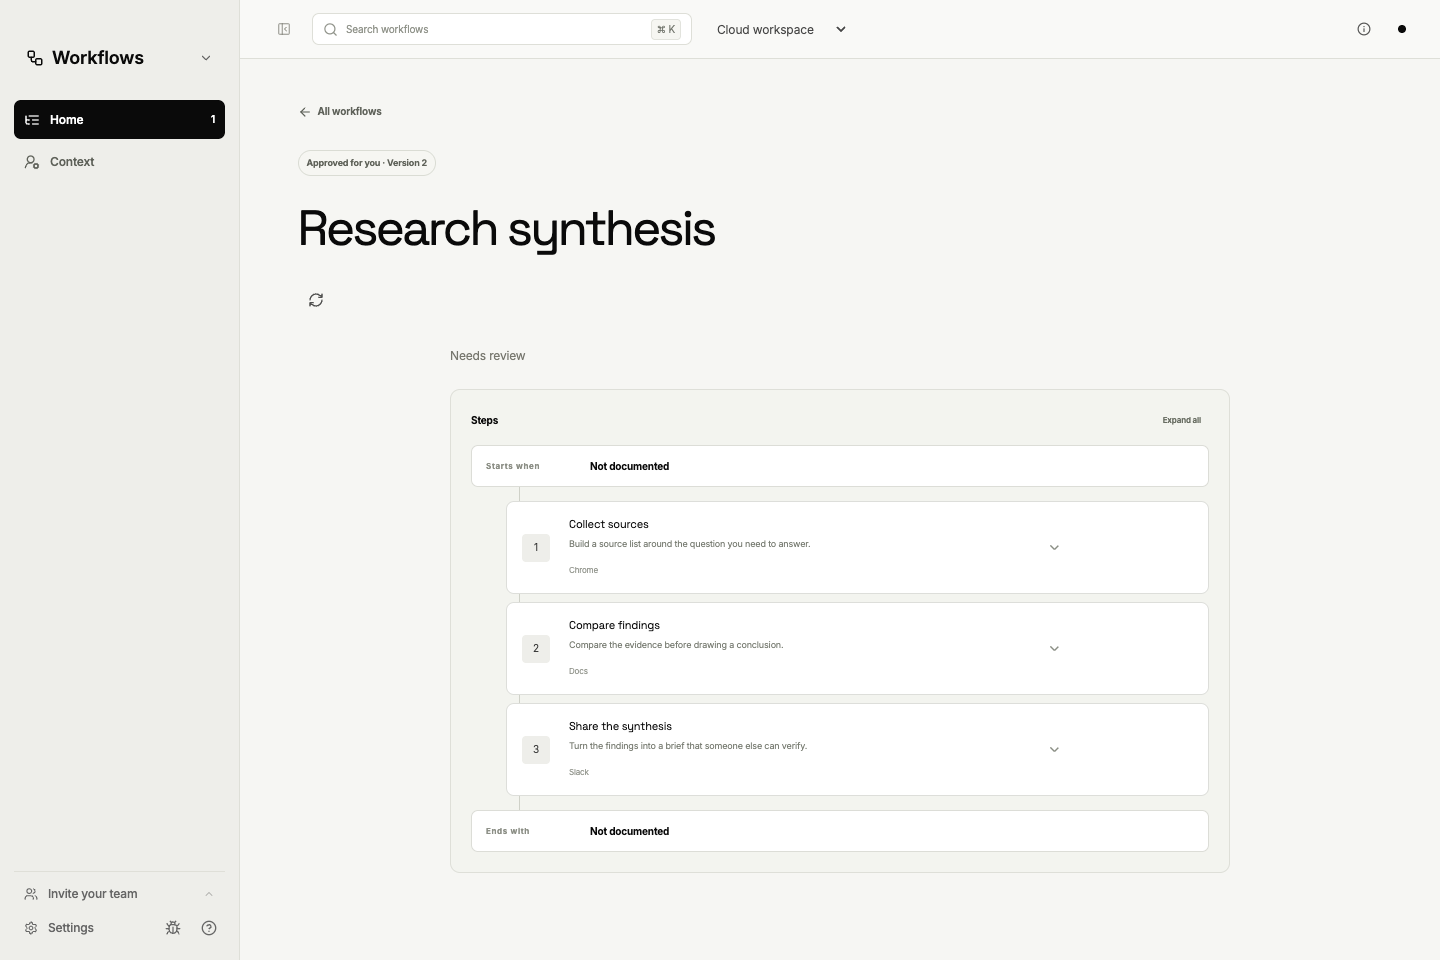
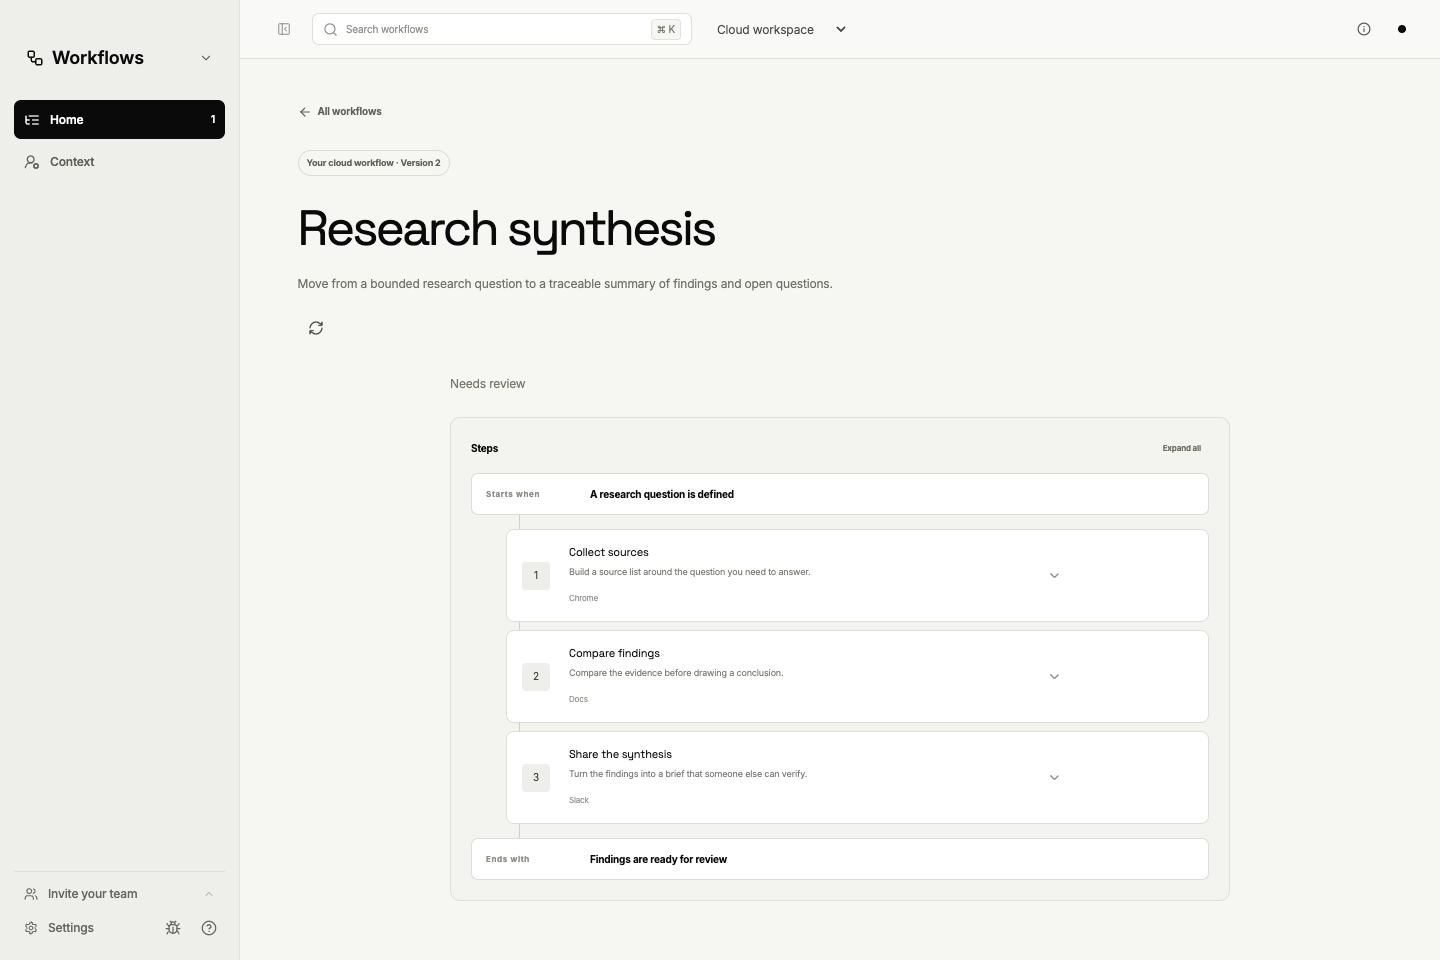
Show automatic personal workflows controlled by workspace settings

diff --git a/apps/screenpipe-app-tauri/components/workflows/cloud-workflows.tsx b/apps/screenpipe-app-tauri/components/workflows/cloud-workflows.tsx
@@ -128,10 +128,10 @@ export function CloudWorkflows({ active, token, onModeChange, recordingStatus, n
         : error ? <section role="alert"><h1 className="text-2xl font-semibold">Cloud workflows unavailable</h1><p className="mt-3 text-sm opacity-70">{error}</p><Button variant="outline" className="mt-4" onClick={refresh}>Refresh</Button></section>
         : loading && !data ? <WorkflowCatalogPlaceholder />
         : view === "workflow" && selected ? <WorkflowDetails workflow={selected} platform={readOnlyPlatform} active={active} navigate={navigate} workProfile={null}
-            workflowAgentActions={() => refreshControl} sourceLabel={`${data?.scope === "member" ? "Approved for you" : "Cloud workflow"} · Version ${selected.revision}`} observationsAvailable={false} canSaveAnswers={false} onAnswersSaved={() => {}} />
+            workflowAgentActions={() => refreshControl} sourceLabel={`${data?.scope === "member" ? "Your cloud workflow" : "Cloud workflow"} · Version ${selected.revision}`} observationsAvailable={false} canSaveAnswers={false} onAnswersSaved={() => {}} />
         : <WorkflowCatalog workflows={workflows} knownWorkflowCount={workflows.length} filters={filters} setFilters={setFilters} openWorkflow={openWorkflow}
             analyze={refresh} analyzing={loading} error="" activityState={{ cycleId: "", items: [], unavailable: false }} refreshControl={refreshControl}
-            emptyState={<section className="py-12"><h2 className="text-lg font-medium">No cloud workflows yet</h2><p className="mt-2 text-sm opacity-70">{data?.scope === "member" ? "Ask your workspace admin to open a workflow’s Share menu and allow you to view it. Only workflows approved for you appear here." : "Workflows will appear here after your workspace analyzes uploaded activity."}</p></section>} />}
+            emptyState={<section className="py-12"><h2 className="text-lg font-medium">No cloud workflows yet</h2><p className="mt-2 text-sm opacity-70">{data?.scope === "member" ? (data.memberAccessEnabled === false ? "Your workspace hasn’t enabled member workflow access. Ask your admin to turn on “Let members see their own workflows” in the enterprise dashboard." : "Your workflows will appear here as your workspace processes activity from your signed-in devices.") : "Workflows will appear here after your workspace analyzes uploaded activity."}</p></section>} />}
     </WorkflowsShell>
     <WorkflowCommandPalette open={active && shortcuts} commands={commands} close={() => setShortcuts(false)} />
   </>;

diff --git a/apps/screenpipe-app-tauri/lib/workflows/cloud-catalog.ts b/apps/screenpipe-app-tauri/lib/workflows/cloud-catalog.ts
@@ -15,14 +15,14 @@ const artifact = z.object({
     recurring_workflows: z.array(z.object({ name: z.string(), trigger: z.string().optional(), outcome: z.string().optional(), frequency: z.string().optional(), steps: z.array(step) })).optional(),
   }),
 });
-const catalog = z.object({ license_id: z.string(), scope: z.enum(["member", "workspace"]).optional(), artifacts: z.array(artifact) });
+const catalog = z.object({ license_id: z.string(), scope: z.enum(["member", "workspace"]).optional(), member_access_enabled: z.boolean().optional(), artifacts: z.array(artifact) });
 export type CloudWorkflow = { id: string; title: string; summary: string; trigger?: string; outcome?: string; frequency?: string; steps: z.infer<typeof step>[]; updatedAt: string; version: number };
-export type CloudWorkflowCatalog = { licenseId: string; scope?: "member" | "workspace"; workflows: CloudWorkflow[] };
+export type CloudWorkflowCatalog = { licenseId: string; scope?: "member" | "workspace"; memberAccessEnabled?: boolean; workflows: CloudWorkflow[] };
 
 export function parseCloudCatalog(value: unknown): CloudWorkflowCatalog {
   const parsed = catalog.parse(value);
   if (parsed.artifacts.some(item => item.org_id !== parsed.license_id)) throw new Error("Cloud workflow workspace did not match.");
-  return { licenseId: parsed.license_id, scope: parsed.scope, workflows: parsed.artifacts
+  return { licenseId: parsed.license_id, scope: parsed.scope, memberAccessEnabled: parsed.member_access_enabled, workflows: parsed.artifacts
     .filter(item => item.status !== "archived" && !item.tags?.includes("studio-chat-draft"))
     .flatMap(item => (item.body.recurring_workflows?.length ? item.body.recurring_workflows : [{ name: item.title, steps: item.body.steps ?? [] }]).map((workflow, index) => ({
       id: `${item.artifact_id}:${index}`, title: workflow.name, summary: item.body.summary ?? "",
@@ -66,7 +66,7 @@ export async function loadCloudCatalog(userToken?: string, signal?: AbortSignal)
     path = "/api/enterprise/member-workflows";
   } else {
     const teamToken = await commands.getEnterpriseTeamApiToken();
-    if (!teamToken) throw new Error("Sign in to your workspace to see workflows approved for you.");
+    if (!teamToken) throw new Error("Sign in to your workspace to see your workflows.");
     headers.Authorization = `Bearer ${teamToken}`;
     path = "/api/enterprise/v1/workflows/generated";
   }

diff --git a/apps/screenpipe-app-tauri/components/workflows/cloud-workflows.test.tsx b/apps/screenpipe-app-tauri/components/workflows/cloud-workflows.test.tsx
@@ -123,10 +123,10 @@ it("does not invent captured observations for cloud procedures", async () => {
   expect(screen.queryByText(/Evidence on 0 captured/)).not.toBeInTheDocument();
   expect(screen.queryByText(/0 observations/)).not.toBeInTheDocument();
 });
-it("explains explicit approval to a member with no workflows", async () => {
+it("explains automatic personal workflows to a member with no results", async () => {
   const service = api(); vi.mocked(service.load).mockResolvedValue({ licenseId: 'org-a', scope: 'member', workflows: [] });
   render(<CloudWorkflows {...props} api={service} />);
-  expect(await screen.findByText(/Only workflows approved for you appear here/)).toBeVisible();
+  expect(await screen.findByText(/Your workflows will appear here as your workspace processes activity/)).toBeVisible();
 });
 it("clears the prior account's catalog before a new account finishes loading", async () => {
   const service = api(); const view = render(<CloudWorkflows {...props} token="first-account" api={service} />);
@@ -134,4 +134,10 @@ it("clears the prior account's catalog before a new account finishes loading", a
   vi.mocked(service.load).mockImplementation(() => new Promise(() => {}));
   view.rerender(<CloudWorkflows {...props} token="second-account" api={service} />);
   expect(screen.queryByRole('heading', { name: 'Review a draft' })).not.toBeInTheDocument();
+});
+
+it("points to the workspace-wide setting when member access is off", async () => {
+  const service = api(); vi.mocked(service.load).mockResolvedValue({ licenseId: 'org-a', scope: 'member', memberAccessEnabled: false, workflows: [] });
+  render(<CloudWorkflows {...props} api={service} />);
+  expect(await screen.findByText(/Let members see their own workflows/)).toBeVisible();
 });

diff --git a/apps/screenpipe-app-tauri/lib/dev/cloud-workflows-fixture.ts b/apps/screenpipe-app-tauri/lib/dev/cloud-workflows-fixture.ts
@@ -8,9 +8,9 @@ export const fixtureCloudWorkflows: CloudWorkflowsServices = {
   async load() {
     const scenario = new URLSearchParams(window.location.search).get("cloudWorkflowState");
     if (scenario === "error") throw new Error("Your account cannot read this workspace’s cloud workflows. Ask your admin for workflow access, then refresh.");
-    return { licenseId: "fictional-workspace", scope: scenario?.startsWith("member") ? "member" : "workspace", workflows: scenario === "empty" || scenario === "member-empty" ? [] : [...fixtureWorkflowAnalysis.analysis.workflows].reverse().slice(0, scenario === "member" ? 1 : undefined).map((workflow, index) => ({
-      id: `fictional-${index}`, title: workflow.title, summary: scenario === "member" ? "" : workflow.description,
-      trigger: scenario === "member" ? undefined : workflow.trigger, outcome: scenario === "member" ? undefined : workflow.outcome, version: 2,
+    return { licenseId: "fictional-workspace", scope: scenario?.startsWith("member") ? "member" : "workspace", memberAccessEnabled: scenario !== "member-disabled", workflows: scenario === "empty" || (scenario === "member-empty" || scenario === "member-disabled") ? [] : [...fixtureWorkflowAnalysis.analysis.workflows].reverse().slice(0, scenario === "member" ? 1 : undefined).map((workflow, index) => ({
+      id: `fictional-${index}`, title: workflow.title, summary: workflow.description,
+      trigger: workflow.trigger, outcome: workflow.outcome, version: 2,
       updatedAt: "2026-09-30T19:00:00Z",
       steps: workflow.stages.map(stage => ({ action: stage.name, detail: stage.description, app: stage.apps[0] })),
     })) };
